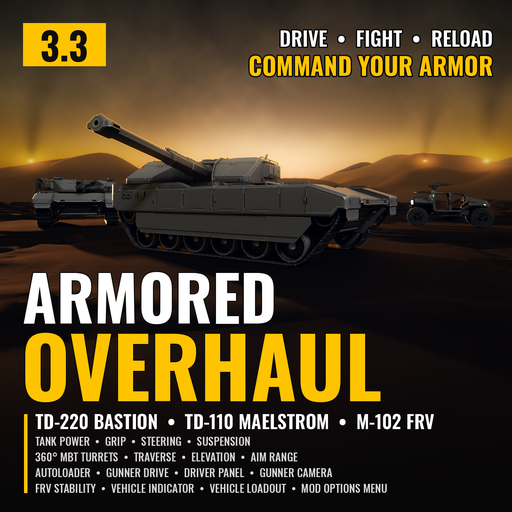
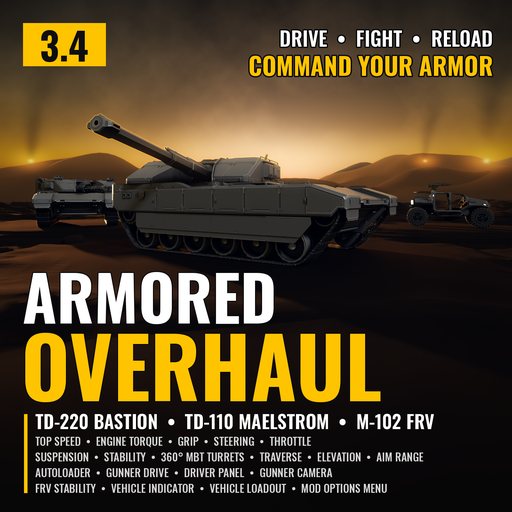
3.4.0: art scripts (3.4 badge, 18 options) and Arsenal thumbnail

Changed region(s): [[0.0625, 0.8438, 0.8438, 0.9062], [0.0938, 0.0625, 0.1875, 0.125]]

diff --git a/src/art/features3.py b/src/art/features3.py
@@ -1,4 +1,4 @@
-"""'What's in 3.3' page photo (features_1920x1080.png): the fifteen Arsenal options with their icons and one line each, over the darkened 16:9 art. python3 features3.py (needs clean_wide.png and options/)."""
+"""'What's in 3.4' page photo (features_1920x1080.png): the eighteen Arsenal options with their icons and one line each, over the darkened 16:9 art. python3 features3.py (needs clean_wide.png and options/)."""
 from PIL import Image, ImageDraw, ImageFilter, ImageFont, ImageEnhance
 
 ART = '.'
@@ -13,23 +13,26 @@ def font(size, weight):
     return f
 
 
-# Arsenal order (3.3); tag = group, badge = what changed since 3.2.0
+# Arsenal order (3.4); tag = group, badge = what changed since 3.3.0
 CARDS = [
-    ('tank_power', 'TANK POWER', 'HANDLING', 'More pulling power: quicker off the line and up slopes.', None),
-    ('tank_grip', 'TANK GRIP', 'HANDLING', 'Tracks hold their line on slopes and in turns.', None),
+    ('tank_speed', 'TANK TOP SPEED', 'HANDLING', 'Faster forward and in reverse, up to x1.3.', 'NEW'),
+    ('tank_power', 'ENGINE TORQUE', 'HANDLING', 'More pull off the line and up slopes, live.', 'UPDATED'),
+    ('tank_grip', 'TANK GRIP', 'HANDLING', 'Tracks hold their line, changed live.', 'UPDATED'),
     ('tank_steering', 'TANK STEERING', 'HANDLING', 'Quicker to start and stop turning.', None),
-    ('tank_suspension', 'TANK SUSPENSION', 'HANDLING', 'A calm ride, a little higher and hard to tip.', None),
-    ('mbt_turrets', 'TANK MBT TURRETS', 'TURRET', 'Rebuilt 360 or 180 turrets with your camo, in place or centered.', 'UPDATED'),
-    ('turret_traverse', 'TURRET TRAVERSE', 'TURRET', 'Turns side to side up to three times as fast.', None),
-    ('turret_elevation', 'TURRET ELEVATION', 'TURRET', 'Moves up and down up to twice as fast.', None),
-    ('turret_aim_range', 'TURRET AIM RANGE', 'TURRET', 'Aims lower and higher: up to -15° / +45°.', None),
-    ('autoloader', 'TANK AUTOLOADER', 'TURRET', 'The main gun reloads by itself when it runs dry.', None),
-    ('gunner_drive', 'GUNNER DRIVE', 'GUNNER SEAT', 'Drive tanks and the FRV from the gunner seat. Every key bindable.', 'UPDATED'),
-    ('driver_panel', 'DRIVER PANEL', 'GUNNER SEAT', 'Gear, rpm, speed and fuel while you drive from the gunner seat.', None),
-    ('gunner_camera', 'TANK GUNNER CAMERA', 'GUNNER SEAT', 'Scroll it in and out, then zoom on the crosshair to 10x.', None),
-    ('frv_stability', 'FRV STABILITY', 'FRV', 'Retuned with more grip: Stable, Mild or Planted.', None),
-    ('turret_indicator', 'VEHICLE INDICATOR', 'ANY SEAT', 'Your vehicle and gun at a glance, in tanks and FRVs, tire by tire.', None),
-    ('vehicle_loadout', 'VEHICLE LOADOUT', 'LOADOUT', 'Take more than one tank, exosuit or FRV into a mission.', 'NEW'),
+    ('tank_throttle', 'THROTTLE RESPONSE', 'HANDLING', 'Snappier throttle, brake and gear changes.', 'NEW'),
+    ('tank_suspension', 'TANK SUSPENSION', 'HANDLING', 'A calm ride, tighter turns at speed.', 'UPDATED'),
+    ('tank_stability', 'TANK STABILITY', 'HANDLING', 'Downforce keeps the tank on the ground.', 'NEW'),
+    ('mbt_turrets', 'TANK MBT TURRETS', 'TURRET', 'Rebuilt 360 or 180 turrets with your camo.', 'UPDATED'),
+    ('turret_traverse', 'TURRET TRAVERSE', 'TURRET', 'Up to three times as fast, tanks out too.', None),
+    ('turret_elevation', 'TURRET ELEVATION', 'TURRET', 'Up and down up to twice as fast.', None),
+    ('turret_aim_range', 'TURRET AIM RANGE', 'TURRET', 'Aims -15° / +45°, on slopes too.', 'UPDATED'),
+    ('autoloader', 'TANK AUTOLOADER', 'TURRET', 'The main gun reloads by itself.', None),
+    ('gunner_drive', 'GUNNER DRIVE', 'GUNNER SEAT', 'Drive tanks and the FRV from the gunner seat.', None),
+    ('driver_panel', 'DRIVER PANEL', 'GUNNER SEAT', 'Gear, rpm, speed and fuel while you drive.', None),
+    ('gunner_camera', 'GUNNER CAMERA', 'GUNNER SEAT', 'Farther, steadier, and zoom in the FRV too.', 'UPDATED'),
+    ('frv_stability', 'FRV STABILITY', 'FRV', 'Retuned with more grip.', None),
+    ('turret_indicator', 'VEHICLE INDICATOR', 'ANY SEAT', 'Your vehicle and gun at a glance.', None),
+    ('vehicle_loadout', 'VEHICLE LOADOUT', 'LOADOUT', 'More than one vehicle per mission.', None),
 ]
 
 
@@ -64,18 +67,18 @@ def main():
     im = bg.convert('RGBA')
     d = ImageDraw.Draw(im)
     d.rectangle([60, 56, 290, 166], fill=YELLOW)
-    d.text((175, 111), '3.3', font=font(104, 700), fill=(14, 14, 16), anchor='mm')
+    d.text((175, 111), '3.4', font=font(104, 700), fill=(14, 14, 16), anchor='mm')
     d.text((326, 106), 'ARMORED ', font=font(84, 700), fill=(255, 255, 255), anchor='ls', stroke_width=2, stroke_fill=(10, 10, 12))
     x = 326 + d.textlength('ARMORED ', font=font(84, 700))
     d.text((x, 106), 'OVERHAUL', font=font(84, 700), fill=YELLOW, anchor='ls', stroke_width=2, stroke_fill=(10, 10, 12))
-    d.text((330, 160), 'FIFTEEN OPTIONS  •  NEW: VEHICLE LOADOUT', font=font(32, 500), fill=(215, 215, 215), anchor='ls')
-    d.text((1860, 106), "WHAT'S IN 3.3", font=font(64, 700), fill=YELLOW, anchor='rs', stroke_width=2, stroke_fill=(10, 10, 12))
+    d.text((330, 160), 'EIGHTEEN OPTIONS  •  NEW: TOP SPEED, THROTTLE, STABILITY', font=font(32, 500), fill=(215, 215, 215), anchor='ls')
+    d.text((1860, 106), "WHAT'S IN 3.4", font=font(64, 700), fill=YELLOW, anchor='rs', stroke_width=2, stroke_fill=(10, 10, 12))
     d.text((1860, 158), 'TD-220 BASTION  •  TD-110 MAELSTROM  •  FRVS', font=font(30, 600), fill=(255, 255, 255), anchor='rs')
-    cols, x0, y0, gx, gy = 5, 60, 214, 18, 22
+    cols, x0, y0, gx, gy = 6, 60, 214, 16, 22
     cw = (1800 - gx * (cols - 1)) // cols
     ch = (1050 - y0 - gy * 2) // 3
-    icon = 104
-    fd, ft, fb = font(23, 500), font(18, 600), font(19, 700)
+    icon = 88
+    fd, ft, fb = font(21, 500), font(17, 600), font(18, 700)
     for i, (key, name, tag, desc, badge) in enumerate(CARDS):
         r, c = divmod(i, cols)
         span = 1

diff --git a/src/art/art3_compose.py b/src/art/art3_compose.py
@@ -1,4 +1,4 @@
-"""Armored Overhaul 3.3 art: grades the Bastion / Maelstrom / FRV renders (scene3.py) into the square thumbnail, the 16:9
+"""Armored Overhaul 3.4 art: grades the Bastion / Maelstrom / FRV renders (scene3.py) into the square thumbnail, the 16:9
 gallery photo, the Nexus header and the 2:1 GitHub social picture.
   python3 art3_compose.py [square] [wide] [header] [social]   (needs R/sq.png, R/mask_sq.png, R/mist_sq_0001.png, the same for wd and hd)
 Outputs: thumbnail_1254.png, thumbnail_512.png (Arsenal), gallery_1920x1080.png, clean_square.png (no text, for icons)."""
@@ -10,14 +10,14 @@ ART = '.'
 R = '../final'
 FONT = ART + '/Oswald-VF.ttf'
 YELLOW = (255, 196, 0)
-VERSION = '3.3'
+VERSION = '3.4'
 TAG1, TAG2 = 'DRIVE  \u2022  FIGHT  \u2022  RELOAD', 'COMMAND YOUR ARMOR'
 VEHICLES = 'TD-220 BASTION  \u2022  TD-110 MAELSTROM  \u2022  M-102 FRV'
-FEATURES_SQUARE = ['TANK POWER  •  GRIP  •  STEERING  •  SUSPENSION',
-                   '360° MBT TURRETS  •  TRAVERSE  •  ELEVATION  •  AIM RANGE',
+FEATURES_SQUARE = ['TOP SPEED  •  ENGINE TORQUE  •  GRIP  •  STEERING  •  THROTTLE',
+                   'SUSPENSION  •  STABILITY  •  360° MBT TURRETS  •  TRAVERSE  •  ELEVATION  •  AIM RANGE',
                    'AUTOLOADER  •  GUNNER DRIVE  •  DRIVER PANEL  •  GUNNER CAMERA',
-                   'FRV STABILITY  •  VEHICLE INDICATOR  •  VEHICLE LOADOUT  •  MOD OPTIONS MENU']   # (3.0) Arsenal option order, then the menu
-FEATURES = ['TANK POWER  •  GRIP  •  STEERING  •  SUSPENSION  •  360° MBT TURRETS  •  TRAVERSE  •  ELEVATION  •  AIM RANGE',
+                   'FRV STABILITY  •  VEHICLE INDICATOR  •  VEHICLE LOADOUT  •  MOD OPTIONS MENU']   # (3.4) Arsenal option order, then the menu
+FEATURES = ['TOP SPEED  •  ENGINE TORQUE  •  GRIP  •  STEERING  •  THROTTLE  •  SUSPENSION  •  STABILITY  •  360° MBT TURRETS  •  TRAVERSE  •  ELEVATION  •  AIM RANGE',
             'AUTOLOADER  •  GUNNER DRIVE  •  DRIVER PANEL  •  GUNNER CAMERA  •  FRV STABILITY  •  VEHICLE INDICATOR  •  VEHICLE LOADOUT  •  MOD OPTIONS MENU']
 
 

diff --git a/src/art/options3_sheet.py b/src/art/options3_sheet.py
@@ -1,12 +1,12 @@
-"""Page image with the Arsenal option icons and their names, in the Arsenal order (options_icons.png), two rows (3.3: 15 options)."""
+"""Page image with the Arsenal option icons and their names, in the Arsenal order (options_icons.png), two rows (3.4: 18 options)."""
 from PIL import Image, ImageDraw, ImageFont
 f = ImageFont.truetype('Oswald-VF.ttf', 30); f.set_variation_by_axes([600])
-names = [('tank_power', 'TANK POWER'), ('tank_grip', 'TANK GRIP'), ('tank_steering', 'TANK STEERING'),
-         ('tank_suspension', 'TANK SUSPENSION'), ('mbt_turrets', 'TANK MBT TURRETS'), ('turret_traverse', 'TURRET TRAVERSE'),
-         ('turret_elevation', 'TURRET ELEVATION'), ('turret_aim_range', 'TURRET AIM RANGE'), ('autoloader', 'TANK AUTOLOADER'),
-         ('gunner_drive', 'GUNNER DRIVE'), ('driver_panel', 'DRIVER PANEL'), ('gunner_camera', 'TANK GUNNER CAMERA'), ('frv_stability', 'FRV STABILITY'),
-         ('turret_indicator', 'VEHICLE INDICATOR'), ('vehicle_loadout', 'VEHICLE LOADOUT')]
-cols = 8; rows = (len(names) + cols - 1) // cols
+names = [('tank_speed', 'TANK TOP SPEED'), ('tank_power', 'ENGINE TORQUE'), ('tank_grip', 'TANK GRIP'), ('tank_steering', 'TANK STEERING'),
+         ('tank_throttle', 'THROTTLE RESPONSE'), ('tank_suspension', 'TANK SUSPENSION'), ('tank_stability', 'TANK STABILITY'),
+         ('mbt_turrets', 'TANK MBT TURRETS'), ('turret_traverse', 'TURRET TRAVERSE'), ('turret_elevation', 'TURRET ELEVATION'),
+         ('turret_aim_range', 'TURRET AIM RANGE'), ('autoloader', 'TANK AUTOLOADER'), ('gunner_drive', 'GUNNER DRIVE'), ('driver_panel', 'DRIVER PANEL'),
+         ('gunner_camera', 'TANK GUNNER CAMERA'), ('frv_stability', 'FRV STABILITY'), ('turret_indicator', 'VEHICLE INDICATOR'), ('vehicle_loadout', 'VEHICLE LOADOUT')]
+cols = 9; rows = (len(names) + cols - 1) // cols
 cw, ch = 296, 256 + 100
 im = Image.new('RGB', (cols * cw + 40, rows * ch + 40), (18, 18, 20)); d = ImageDraw.Draw(im)
 for i, (n, t) in enumerate(names):

diff --git a/src/art/README.md b/src/art/README.md
@@ -1,6 +1,6 @@
-# Armored Overhaul 3.3 art
+# Armored Overhaul 3.4 art
 
-The thumbnail, gallery photo, header, social picture and the "What's in 3.3" and option pictures in `media/`.
+The thumbnail, gallery photo, header, social picture and the "What's in 3.4" and option pictures in `media/`.
 
 1. **Game models.** Build [Filediver](https://github.com/xypwn/filediver) (the commit in `filediver_commit.txt`) with
    `filediver_art.diff` applied: game data and materials that aren't in the extracted packages are skipped instead of
